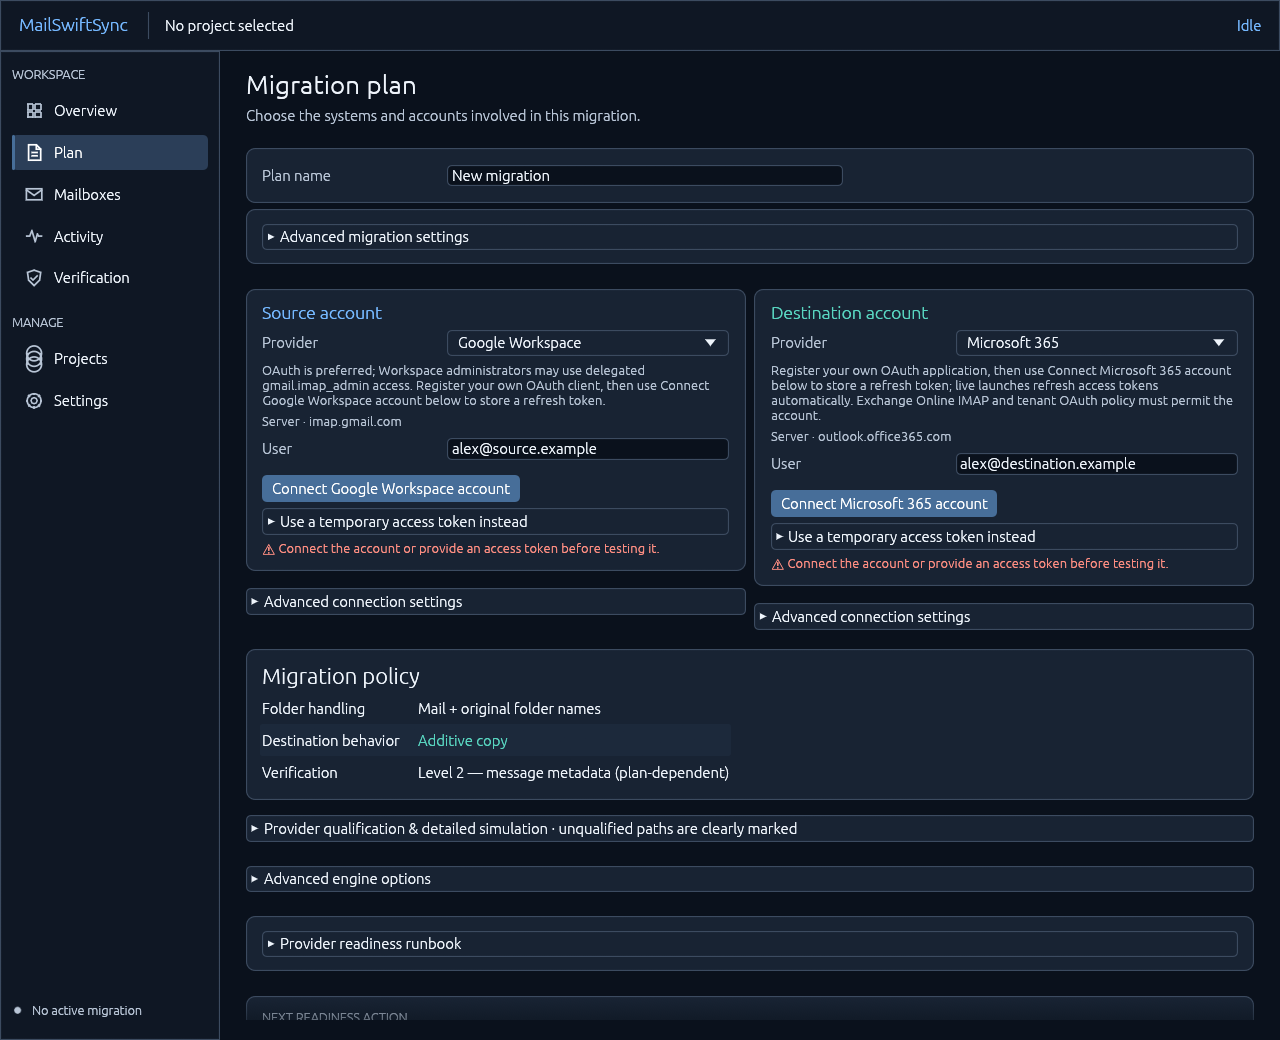
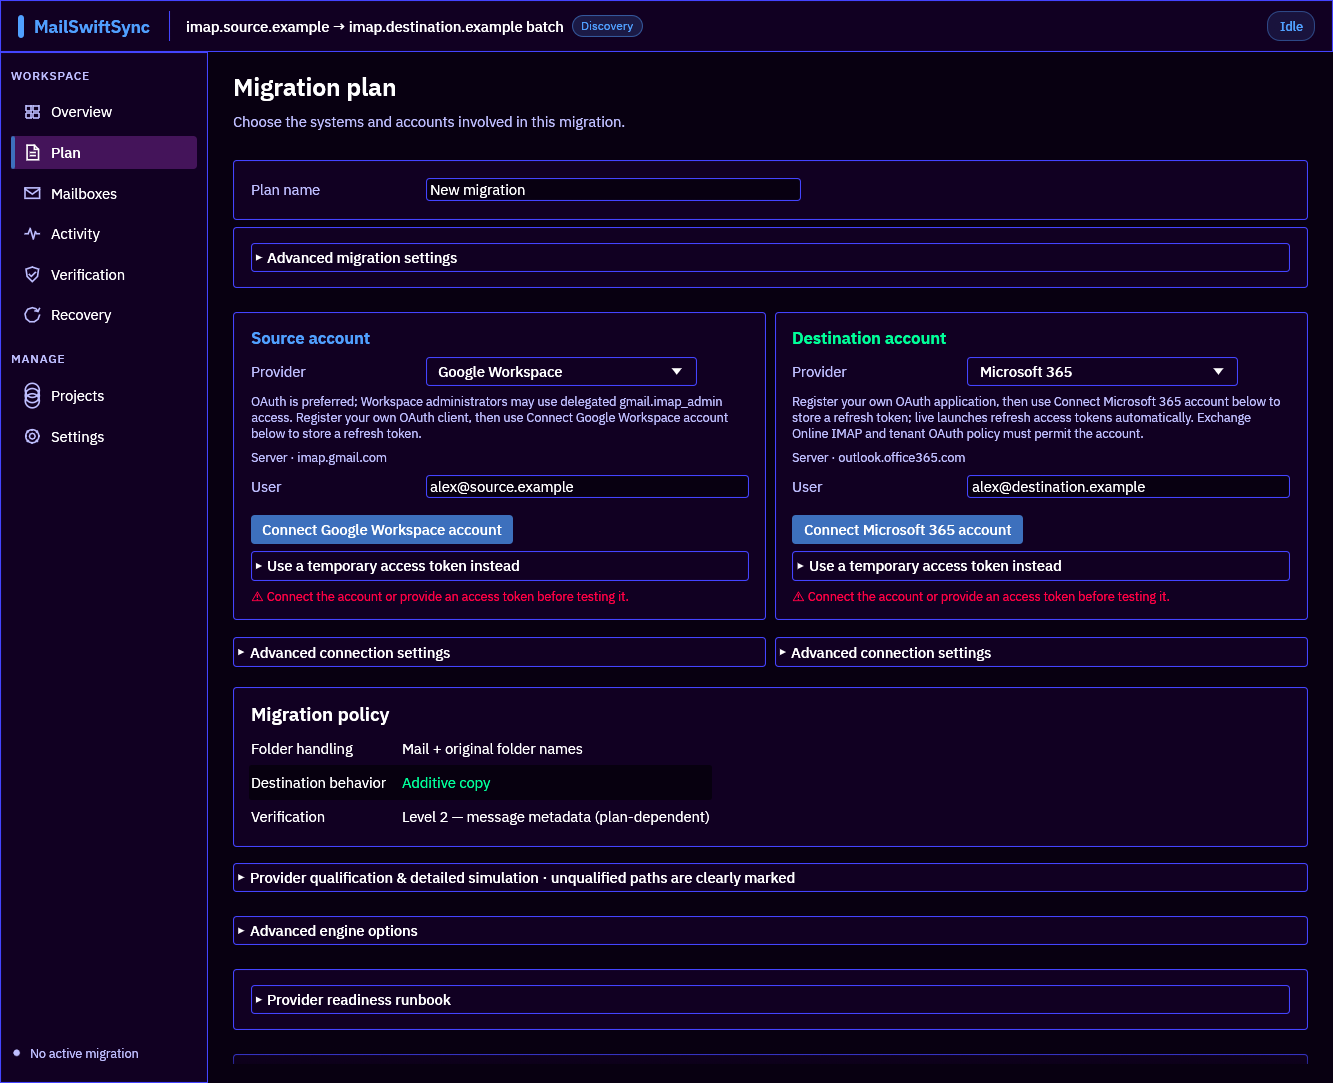
Fit the mailbox state column and refresh retro screenshots
The state column was an auto column sized after the remainder columns
had claimed the table width, so long badges pushed it past the panel
edge at 1280 px. Reserve the widest translated badge up front.

Recapture the README and wiki screenshots in the Retro 80s Neon theme
with the current typography (neutral operator name, no local user),
and point the README at the wiki images instead of duplicate copies.

diff --git a/src/ui/batch.rs b/src/ui/batch.rs
@@ -722,6 +722,19 @@ impl App {
             let table_width = ui.available_width();
             let show_endpoints = table_width >= 760.0;
             let show_operator_action = table_width >= 1100.0;
+            // An auto column only grows to its content after the remainder
+            // columns have claimed the width, which pushed long badges past
+            // the panel edge. Reserve the widest badge in this language.
+            let badge_size = egui::TextStyle::Body.resolve(ui.style()).size;
+            let state_width = crate::ui::status::JOB_BADGE_STATES
+                .iter()
+                .map(|state| {
+                    let (badge, color) = job_state_badge(state, colors);
+                    let text = crate::ui::status_text(self.language.text(badge), color, badge_size);
+                    ui.fonts_mut(|fonts| fonts.layout_job(text).size().x)
+                })
+                .fold(96.0_f32, f32::max)
+                + 4.0;
             // Resizable columns draw permanent dividers in the border colour;
             // soften them so rows read as rows, not a spreadsheet grid.
             let divider = ui.visuals().widgets.noninteractive.bg_stroke;
@@ -738,7 +751,7 @@ impl App {
                     .column(Column::remainder().at_least(110.0).clip(true))
                     .column(Column::remainder().at_least(110.0).clip(true));
             }
-            table = table.column(Column::auto().at_least(96.0).clip(true));
+            table = table.column(Column::initial(state_width).at_least(96.0).clip(true));
             if show_operator_action {
                 table = table.column(Column::remainder().at_least(90.0).clip(true));
             }

diff --git a/src/ui/status.rs b/src/ui/status.rs
@@ -232,6 +232,26 @@ pub(crate) fn display_state_key(state: &str) -> String {
     core::MailboxState::parse(&normalized).map_or(normalized, |state| state.as_str().to_owned())
 }
 
+/// Every state `job_state_badge` distinguishes, so a table can size its state
+/// column for the widest badge before any row is laid out.
+pub(crate) const JOB_BADGE_STATES: [&str; 15] = [
+    "imported",
+    "verified_with_exceptions",
+    "verified",
+    "completed",
+    "running",
+    "queued",
+    "preflight",
+    "retrying",
+    "ready",
+    "delta_required",
+    "verification_difference",
+    "attention",
+    "failed",
+    "cancelled",
+    "unknown",
+];
+
 pub(crate) fn job_state_badge(state: &str, colors: ThemeColors) -> (&'static str, Color32) {
     match state {
         "imported" => ("○ Imported", colors.text_secondary),

diff --git a/docs/wiki/Home.md b/docs/wiki/Home.md
@@ -2,7 +2,7 @@
 
 MailSwiftSync is a local mailbox migration control plane. It uses Dovecot's native `doveadm`/dsync workflow when the destination is Dovecot, and `imapsync` for arbitrary IMAP-to-IMAP work. It helps you plan a migration, test it safely, keep a durable project record, and verify the result.
 
-![MailSwiftSync Overview with a loaded batch queue](assets/overview.png)
+![MailSwiftSync Overview with a loaded batch queue — Retro 80s Neon theme](assets/overview.png)
 
 *Overview page of the current release with placeholder `.example` data: queue status, the recommended next step, and progress through the migration workflow and project lifecycle.*
 
@@ -16,7 +16,7 @@ MailSwiftSync is a local mailbox migration control plane. It uses Dovecot's nati
 6. Click **Run preflight** against a test destination mailbox. The engine runs without changing the destination.
 7. Confirm the mailbox is **Ready** and the preflight plan still matches the current fields. Only then clear **Dry run / preflight** and click **Start live migration**, which asks for confirmation. Changing endpoints, users, engine, TLS, ports, or controlled options requires another preflight.
 
-![Migration plan page](assets/migration-plan.png)
+![Migration plan page — Retro 80s Neon theme](assets/migration-plan.png)
 
 ## Choose the right engine
 

diff --git a/README.md b/README.md
@@ -8,7 +8,7 @@
 [![License: MIT](https://img.shields.io/badge/license-MIT-blue.svg)](LICENSE)
 [![Rust](https://img.shields.io/badge/built%20with-Rust-orange.svg)](https://www.rust-lang.org/)
 
-![Migration plan — Retro 80s Neon theme](docs/wiki/assets/migration-plan-retro-80s.png)
+![Migration plan — Retro 80s Neon theme](docs/wiki/assets/migration-plan.png)
 
 > Documentation images are current workflow previews, not pixel-accurate screenshots of the egui interface. They illustrate the intended operator flow and emphasize explicit safety state, lifecycle visibility, redacted command review, and diagnostics.
 
@@ -517,7 +517,7 @@ restoring an earlier verified backup returns the ledger to normal operation.
 It does not cover the transfer engine itself running out of destination
 storage.
 
-![Mailboxes workspace — Retro 80s Neon theme](docs/wiki/assets/batch-queue-retro-80s.png)
+![Mailboxes workspace — Retro 80s Neon theme](docs/wiki/assets/batch-queue.png)
 
 The on-screen **Activity** log is intentionally capped at 10,000 lines for desktop stability; the structured durable event ledger remains the longer-lived audit record. Raw engine transcripts stay process-local and are not written to SQLite.
 

diff --git a/docs/wiki/Bulk-migrations.md b/docs/wiki/Bulk-migrations.md
@@ -6,7 +6,7 @@ MailSwiftSync can import a migration list from CSV or XLSX and process rows with
 
 XLSX files are limited to 100,000 data rows, 64 columns, and 1,000,000 occupied or expanded cells per selected worksheet. Sheets whose declared or actual cell range exceeds those limits are rejected before Calamine creates its dense worksheet matrix.
 
-![Mailboxes page with a loaded batch queue](assets/batch-queue.png)
+![Mailboxes page with a loaded batch queue — Retro 80s Neon theme](assets/batch-queue.png)
 
 *Mailboxes page of the current release with placeholder `.example` data: queue health, collapsed queue settings, selection controls, and the review drawer for two selected rows. Passwords are never shown in the queue.*
 

diff --git a/CHANGELOG.md b/CHANGELOG.md
@@ -2,6 +2,11 @@
 
 ## Unreleased
 
+- Size the Mailboxes state column for the widest translated status badge so
+  long states no longer push the column past the panel edge at 1280 px.
+- Refresh the README and wiki screenshots in the Retro 80s Neon theme with
+  the current typography, and drop the duplicate README-only image copies.
+
 - Anchor `reverify` to the latest completed transfer rather than a later
   dry-run preflight, which also finishes as `completed` but copied nothing; a
   mailbox with only preflight history is refused.

diff --git a/docs/wiki/Install-and-first-launch.md b/docs/wiki/Install-and-first-launch.md
@@ -34,7 +34,7 @@ MailSwiftSync looks for `imapsync` on your PATH. If it is installed elsewhere, e
 
 ## Fill in the two account cards
 
-![Migration plan page](assets/migration-plan.png)
+![Migration plan page — Retro 80s Neon theme](assets/migration-plan.png)
 
 The left card is **Source account**. This is the mailbox you are copying from.
 
